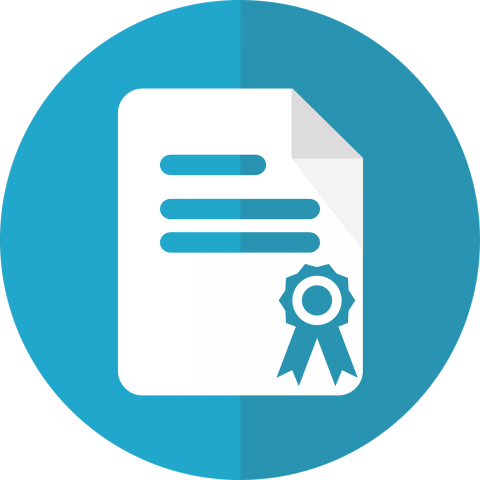
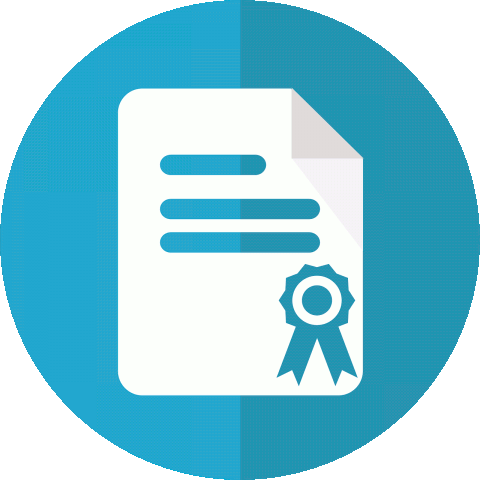
jan

diff --git a/ar/index.html b/ar/index.html
@@ -425,7 +425,7 @@
                             <ul class="slides">
                                 <li>
                                     <div class="slide-items">
-                                        <img src="../images/quality.jpg" alt="إدارة الجودة" title="إدارة الجودة" height="auto" width="auto">
+                                        <img src="../images/quality.png" alt="إدارة الجودة" title="إدارة الجودة" height="auto" width="auto">
                                         <p>استشارات إدارة الجودة
                                         </p>
                                         <div style= "color: blanchedalmond">نقدم لكم الخدمات الأكثر موثوقية في استشارات إدارة الجودة الشاملة </div>
@@ -449,7 +449,7 @@
                                 </li>
                                 <li>
                                     <div class="slide-items">
-                                        <img src="../images/biosafety.jpg" alt="الأمان الحيوي" title="الأمان الحيوي" height="auto" width="auto">
+                                        <img src="../images/biosafety.png" alt="الأمان الحيوي" title="الأمان الحيوي" height="auto" width="auto">
                                         <p>استشارات في الأمان الحيوي
                                         </p>
                                         <div style= "color: blanchedalmond">نوفر لكم التدريب والاستشارات الأرخص والأكثر أمانًا في مجال السلامة الحيوية</div>
@@ -457,7 +457,7 @@
                                 </li>
                                 <li>
                                     <div class="slide-items">
-                                        <img src="../images/hr-development.jpg" alt="الموارد البشرية" title="الموارد البشرية" height="auto" width="auto">
+                                        <img src="../images/hr-development.png" alt="الموارد البشرية" title="الموارد البشرية" height="auto" width="auto">
                                         <p>تنمية الموارد البشرية
                                         </p>
                                         <div style= "color: blanchedalmond">نعدكم بتنظيم ورش عمل تغرس ثقافة الجودة بين العاملين وفي جميع أنحاء مكان العمل</div>
@@ -473,7 +473,7 @@
                                 </li>
                                 <li>
                                     <div class="slide-items">
-                                        <img src="../images/customer-satisfaction.jpg" alt="رضا العملاء" title="رضا العملاء" height="auto" width="auto">
+                                        <img src="../images/customer-satisfaction.png" alt="رضا العملاء" title="رضا العملاء" height="auto" width="auto">
                                         <p>استشارات تعزيز رضا العملاء
                                         </p>
                                         <div style= "color: blanchedalmond">نعيد تعريف سياسة ورؤية ورسالة مؤسستكم كما نعيد تشكيل ملفكم التعريفي لجذب مزيد من العملاء</div>
@@ -489,7 +489,7 @@
                                 </li>
                                 <li>
                                     <div class="slide-items">
-                                        <img src="../images/gap.jpg" alt="تقييم الأداء" title="تقييم الأداء" height="auto" width="auto">
+                                        <img src="../images/gap.png" alt="تقييم الأداء" title="تقييم الأداء" height="auto" width="auto">
                                         <p>خدمات التدقيق وتقييم الأداء
                                         </p>
                                         <div style= "color: blanchedalmond">نقدم لكم خدمات التدقيق وتقييم الأداء وتحديد الفرص والمخاطر الأكثر وضوحًا والأقل تعقيدًا</div>

diff --git a/index.html b/index.html
@@ -413,7 +413,7 @@
                             <ul class="slides">
                                 <li>
                                     <div class="slide-items">
-                                        <img src="images/quality.jpg" alt="Quality Consulting" title="Quality Consulting" height="auto" width="auto">
+                                        <img src="images/quality.png" alt="Quality Consulting" title="Quality Consulting" height="auto" width="auto">
                                         <p>Quality Management Consulting
                                         </p>
                                         <div style= "color: blanchedalmond">We offer the most reliabl Total Quality Management Consulting Services</div>
@@ -437,7 +437,7 @@
                                 </li>
                                 <li>
                                     <div class="slide-items">
-                                        <img src="images/biosafety.jpg" alt="Biosafety Consulting" title="Biosafety Consulting" height="auto" width="auto">
+                                        <img src="images/biosafety.png" alt="Biosafety Consulting" title="Biosafety Consulting" height="auto" width="auto">
                                         <p>Biosafety Consulting
                                         </p>
                                         <div style= "color: blanchedalmond">We deliver the most effective and cost-efficient Biosafety Training & Consulting</div>
@@ -445,7 +445,7 @@
                                 </li>
                                 <li>
                                     <div class="slide-items">
-                                        <img src="images/hr-development.jpg" alt="Human Resources Development" title="Human Resources Development" height="auto" width="auto">
+                                        <img src="images/hr-development.png" alt="Human Resources Development" title="Human Resources Development" height="auto" width="auto">
                                         <p>Human Resources Development
                                         </p>
                                         <div style= "color: blanchedalmond">We promise to implant through our Workshops the Culture of Quality throughout your workplace</div>
@@ -461,7 +461,7 @@
                                 </li>
                                 <li>
                                     <div class="slide-items">
-                                        <img src="images/customer-satisfaction.jpg" alt="Customer Satisfaction Consulting" title="Customer Satisfaction Consulting" height="auto" width="auto">
+                                        <img src="images/customer-satisfaction.png" alt="Customer Satisfaction Consulting" title="Customer Satisfaction Consulting" height="auto" width="auto">
                                         <p>Customer Satisfaction Consulting
                                         </p>
                                         <div style= "color: blanchedalmond">We re-define Policy, Vision & Mission statements, & reshape Portfolios to attract more customers</div>
@@ -477,7 +477,7 @@
                                 </li>
                                 <li>
                                     <div class="slide-items">
-                                        <img src="images/gap.jpg" alt="GAP Analysis" title="GAP Analysis" height="auto" width="auto">
+                                        <img src="images/gap.png" alt="GAP Analysis" title="GAP Analysis" height="auto" width="auto">
                                         <p>Auditing & GAP Analysis Services
                                         </p>
                                         <div style= "color: blanchedalmond">We offer the most straightforward Auditing, Performance, Risk & Opportunities Assessment Services</div>
